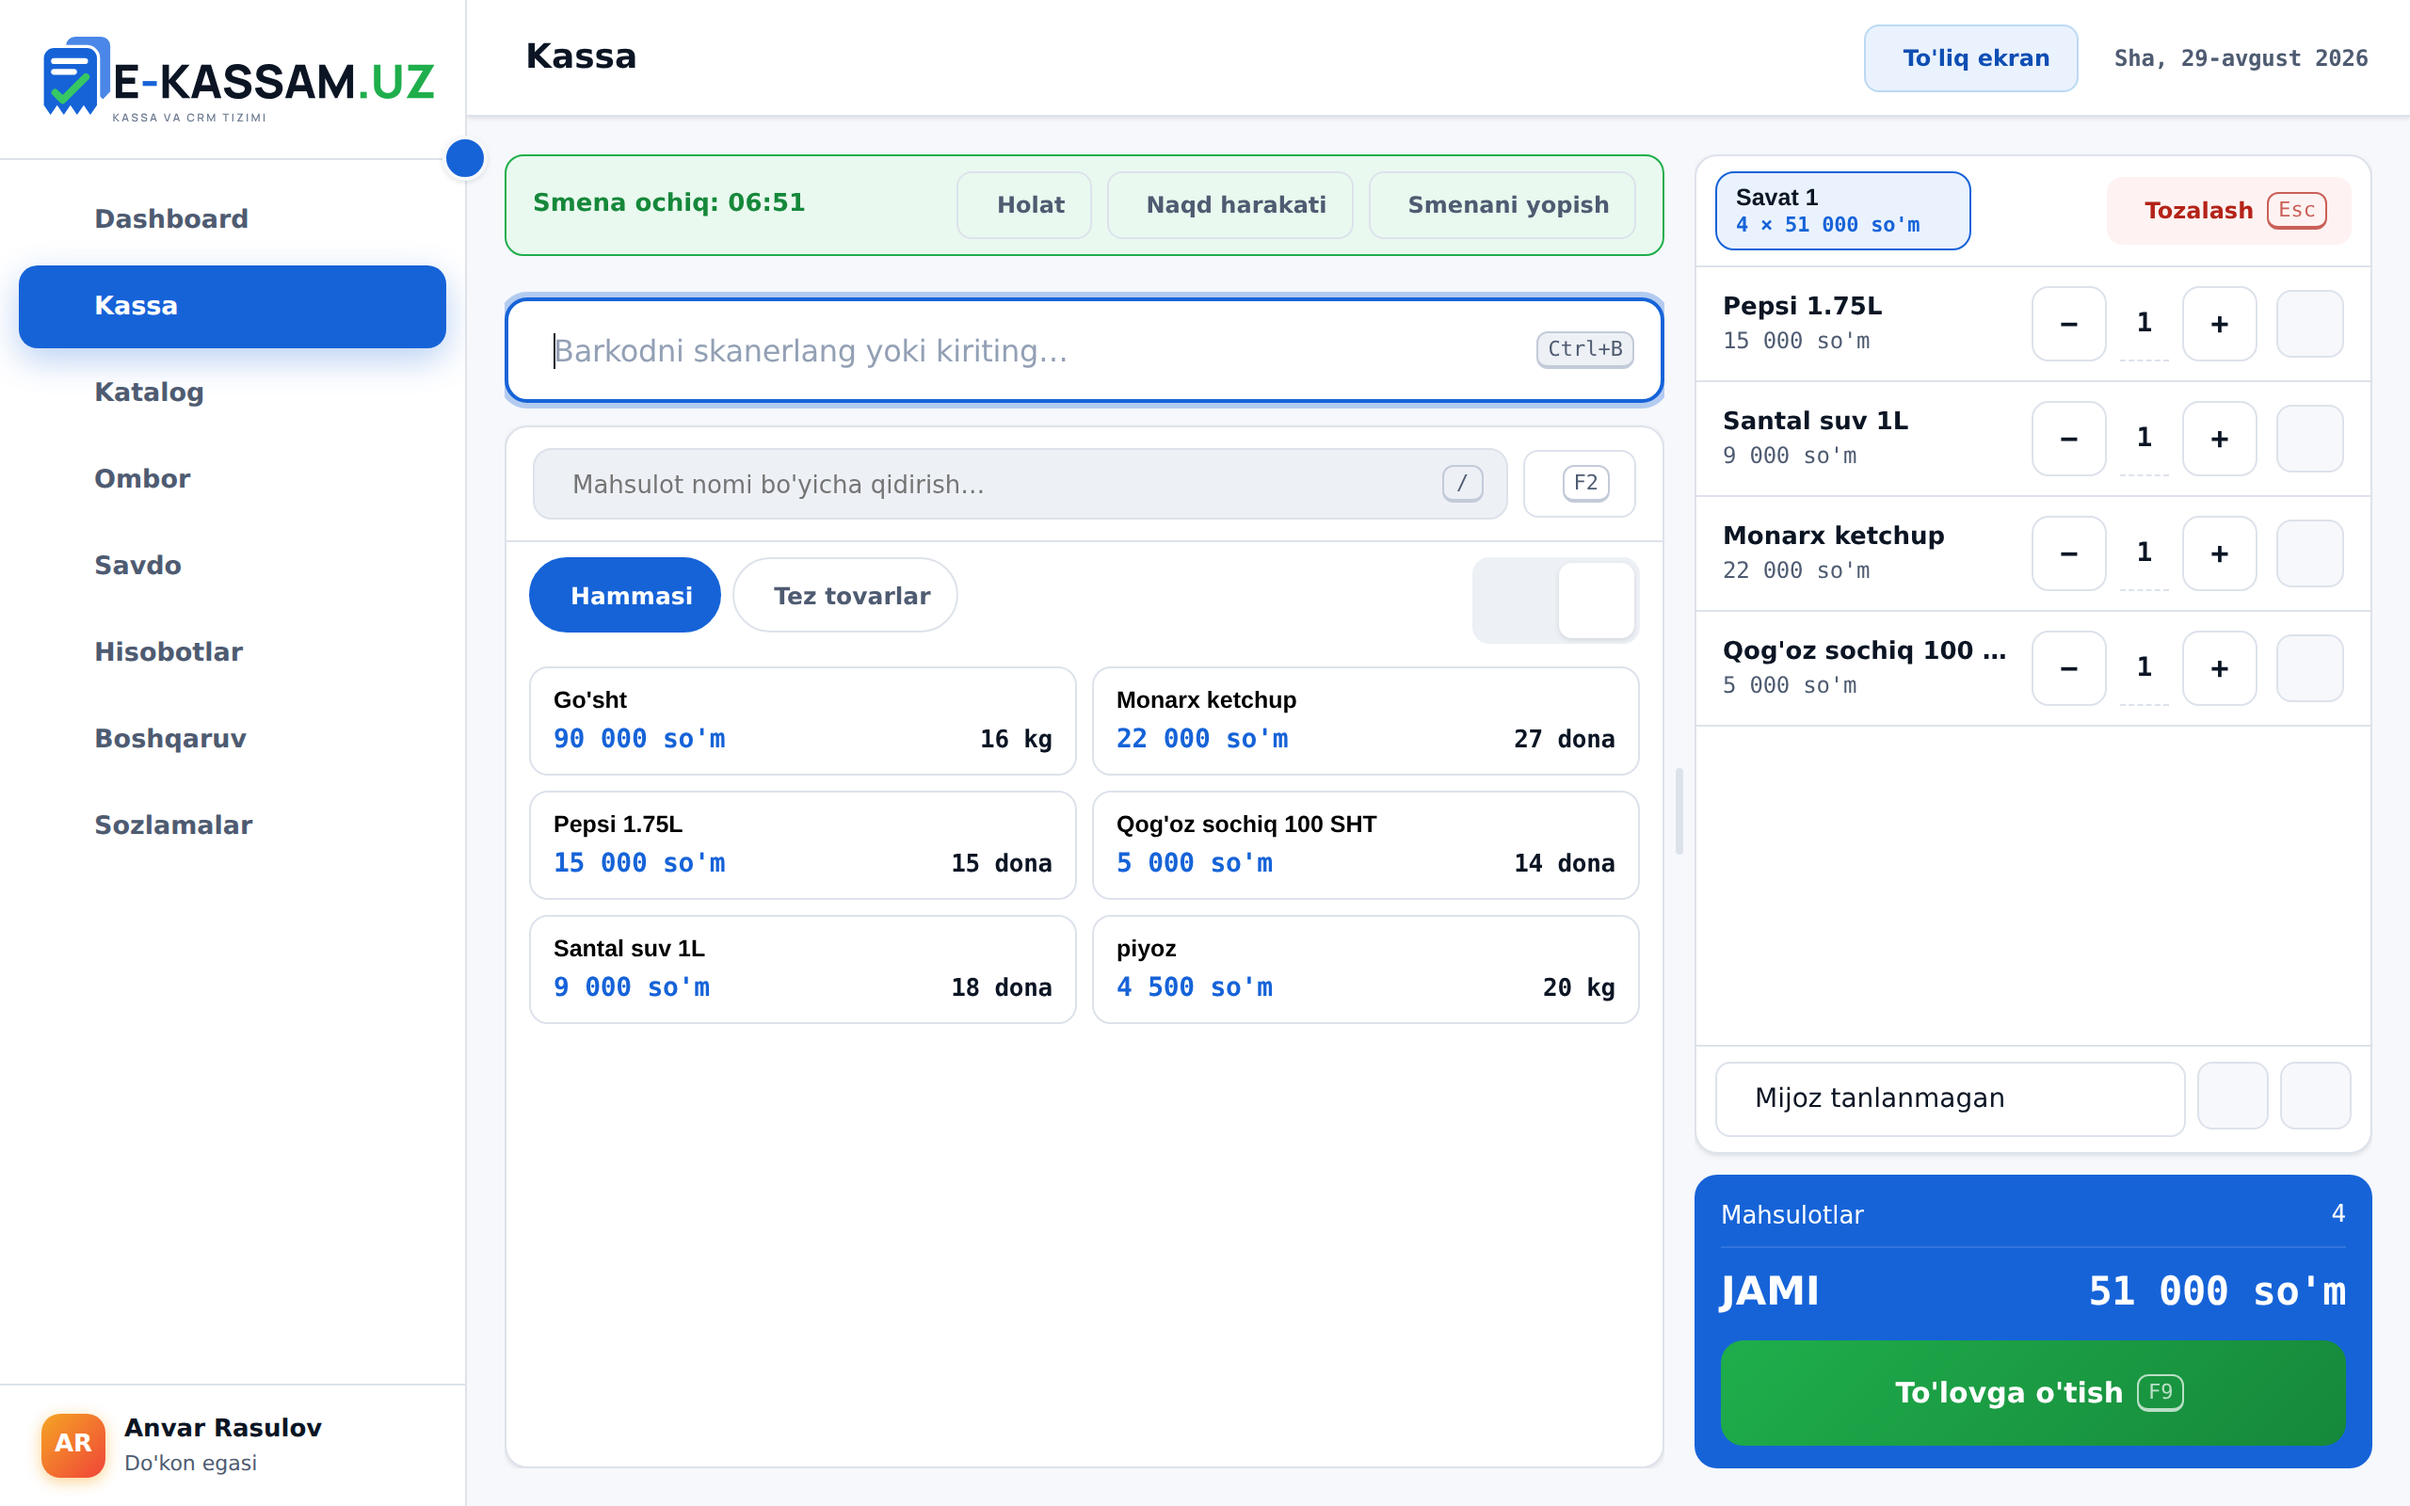
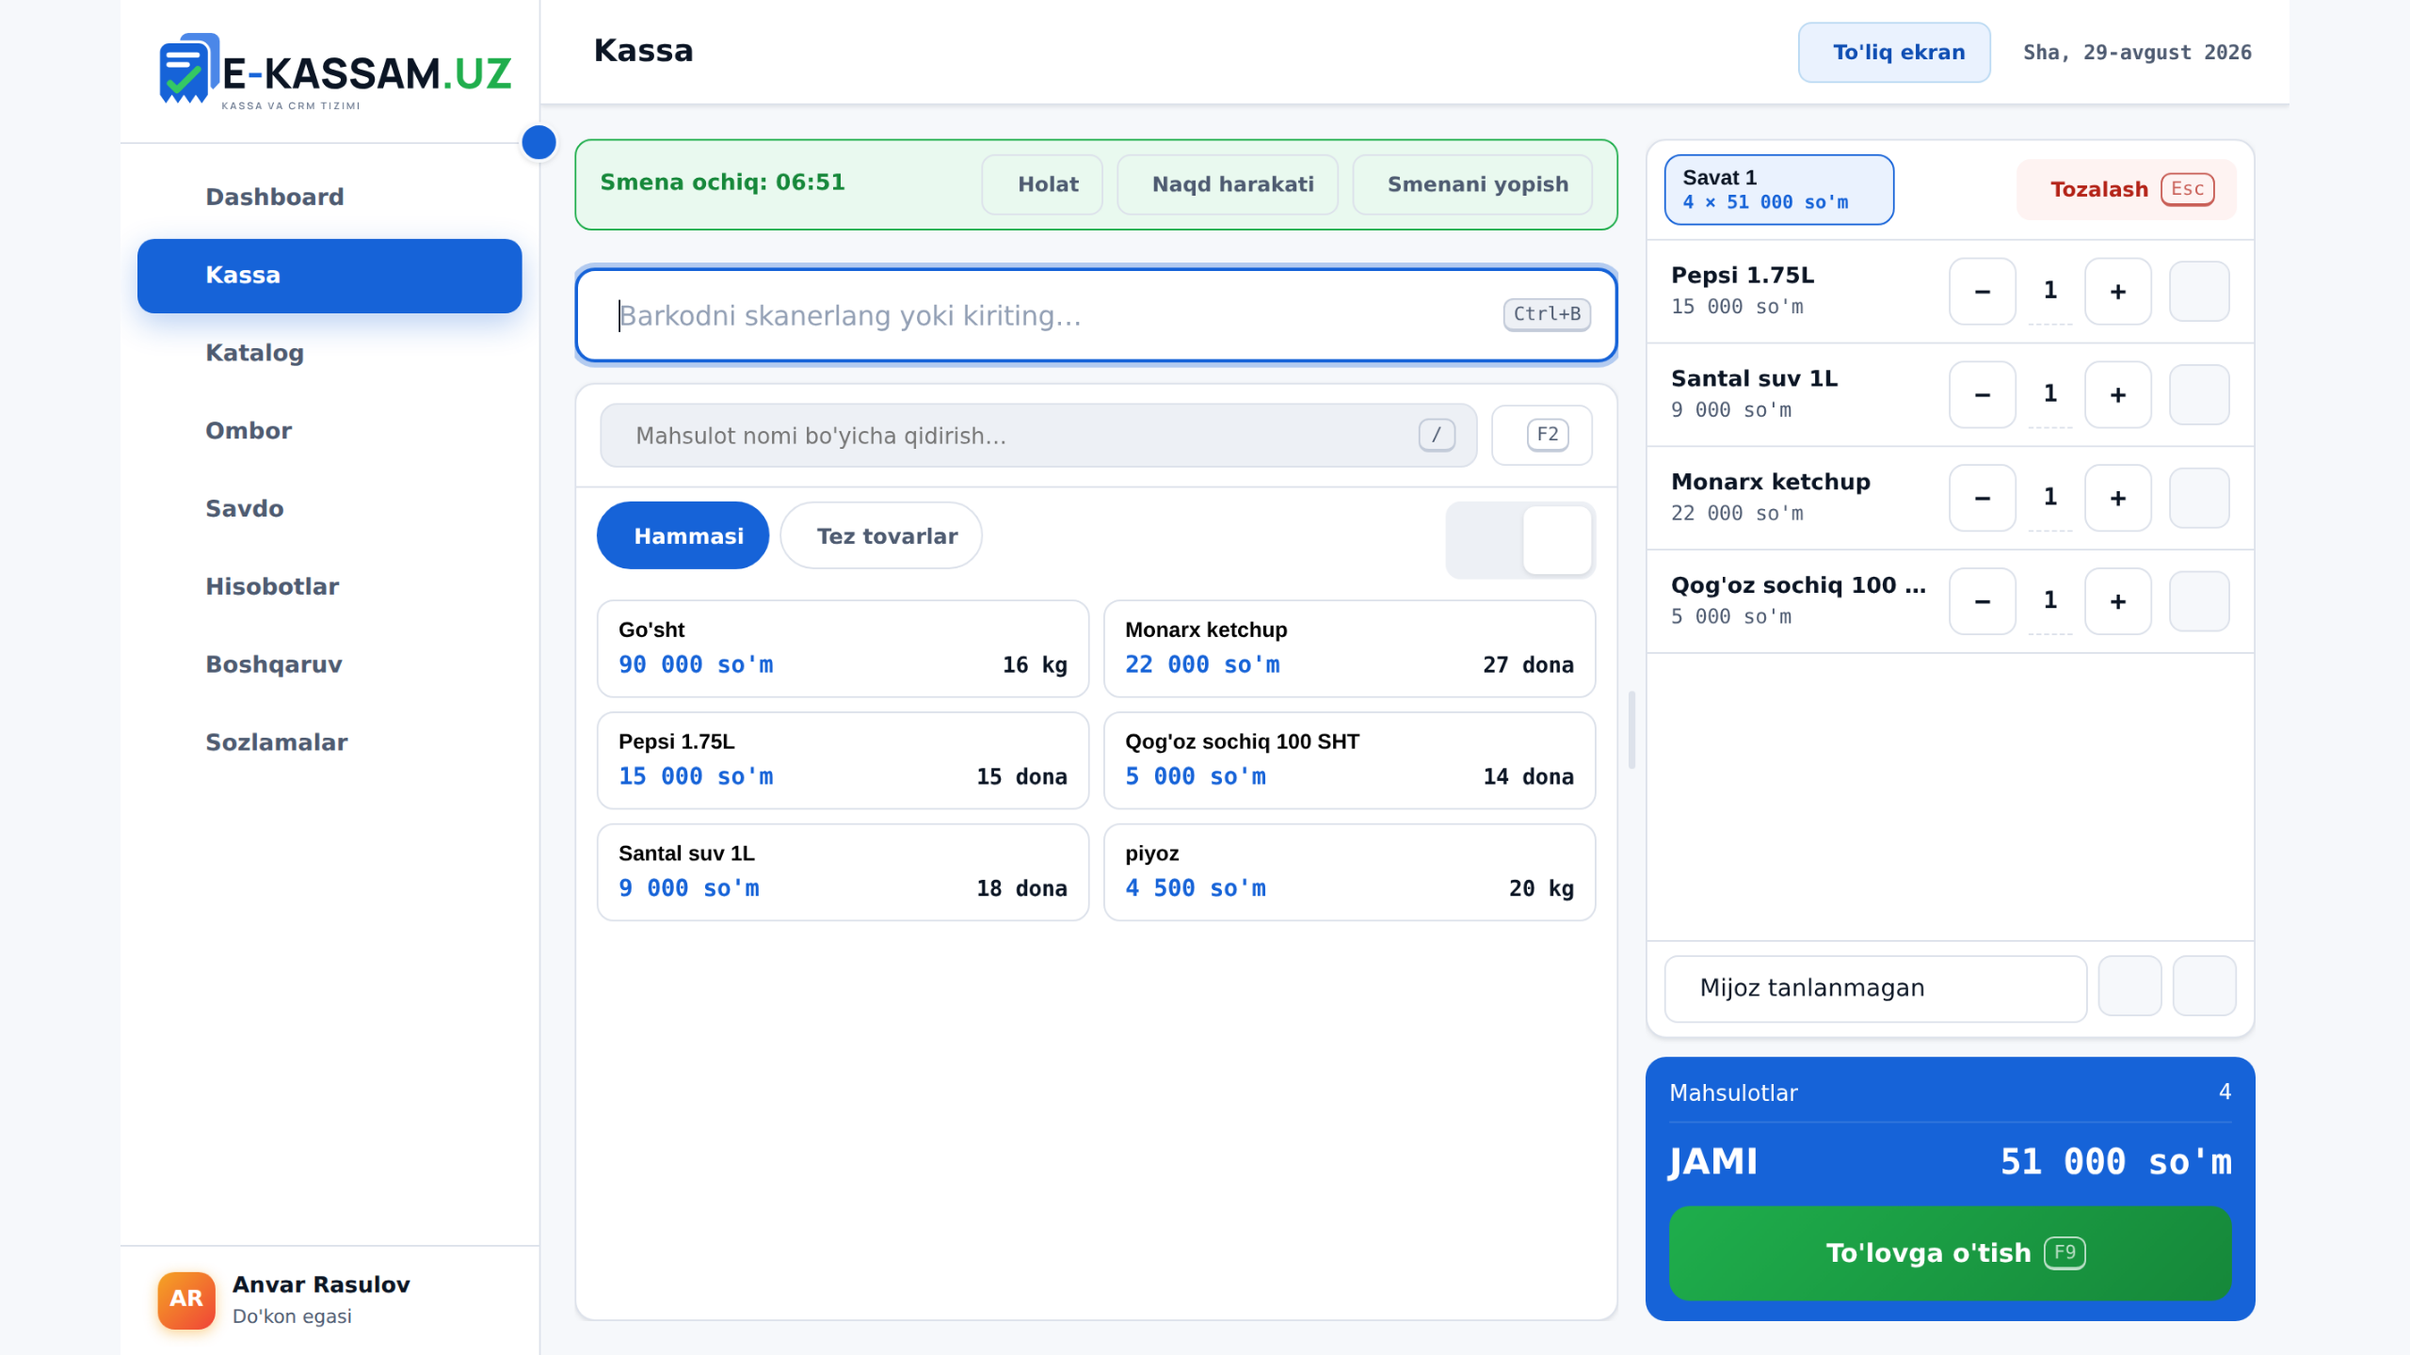
Planshet skrinshotlari 16:9 ga o'tkazildi — Play 16:10 ni qabul qilmaydi
Play planshet uchun faqat 16:9 yoki 9:16 qabul qiladi, rasmlar esa
2560×1600 (16:10) edi. Kesish mumkin emas: tepada logotip, pastda
«To'lovga o'tish» tugmasi qoladi. Shuning uchun balandlik bo'yicha
sig'dirilib, yon tomonlar ilovaning o'z fon rangi bilan to'ldirildi.

Yon chiziq rangi to'rt rasmda ham bir xil (#F6F8FB): karuselda ular
yonma-yon turadi, rang har xil bo'lsa to'plam qo'lbola ko'rinadi.

Store listing maydonlari jadvali ham yozildi: Chromebook va XR bo'lim-
lari bo'sh qoladi.

diff --git a/store/google-play/EKRAN-JAVOBLARI.md b/store/google-play/EKRAN-JAVOBLARI.md
@@ -243,6 +243,29 @@ siyosiy foydasi yo'q.
 
 Matn va rasm — shu papkada: `matn-{uz,ru,en}.md`, `grafika/`, `skrinshot/`.
 
+| Maydon | Nima qo'yiladi |
+|---|---|
+| App icon | `grafika/ikonka-512.png` — 512×512 |
+| Feature graphic | `grafika/feature-1024x500.png` — 1024×500 |
+| Video | **bo'sh** |
+| Phone screenshots | 7 ta `skrinshot/phone-*.png` — 1080×1920 |
+| 7-inch tablet | 4 ta `skrinshot/tab-*.png` — 2560×1440 |
+| 10-inch tablet | **o'sha 4 ta fayl** |
+| Chromebook | **bo'sh** — Play planshet rasmlarini oladi |
+| Android XR | **bo'sh** — VR qurilma uchun ilova emas |
+| Spatial / Non-spatial XR video | **bo'sh** |
+
+⚠ **Play faqat 16:9 yoki 9:16 qabul qiladi.** Planshet rasmlari avval
+2560×1600 (16:10) edi — yuklovchi rad etadi. Kesib bo'lmaydi: tepada
+logotip, pastda «To'lovga o'tish» tugmasi bor. Shuning uchun rasm
+balandligi bo'yicha sig'dirilib, yon tomonlar ilovaning o'z fon rangi
+(`#F6F8FB`) bilan to'ldirildi — natija 2560×1440. Yon chiziq rangi
+hamma rasmda bir xil: karuselda to'rttasi yonma-yon turadi.
+
+Bitta to'plam ikkala planshet bo'limiga ham yaraydi: 7-inch 320–3840 px
+oralig'ini, 10-inch 1080–7680 px oralig'ini talab qiladi, 2560×1440
+ikkoviga ham tushadi.
+
 ⚠ Planshet skrinshotlarini albatta qo'ying, aks holda Play «planshet
 uchun moslashtirilmagan» deb ogohlantiradi.
 
